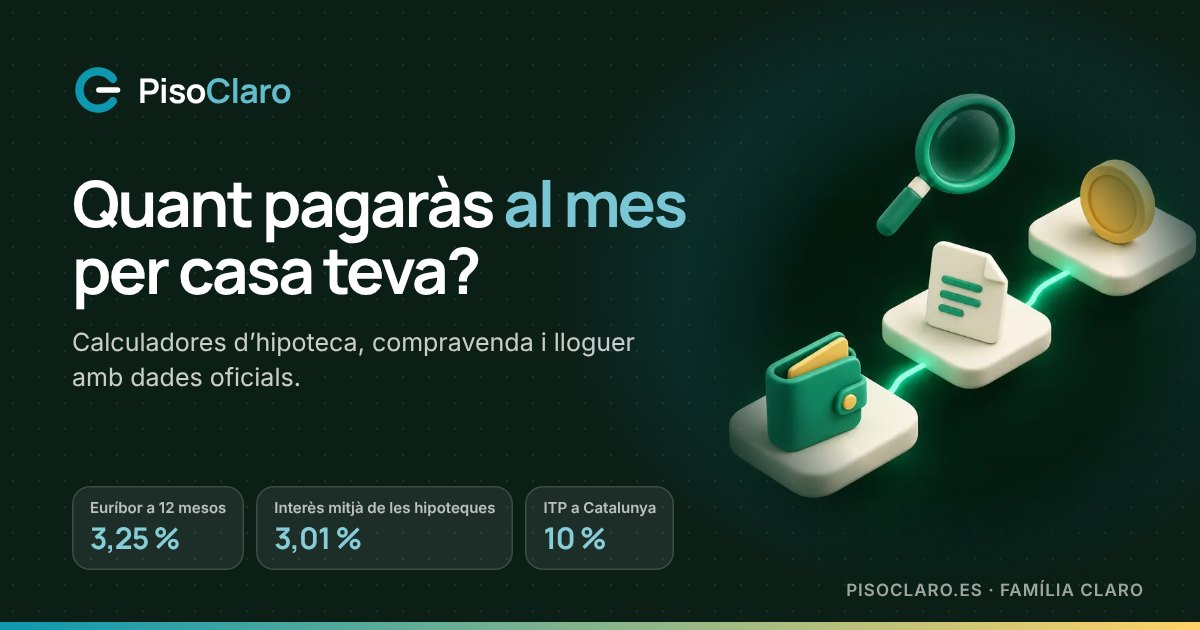
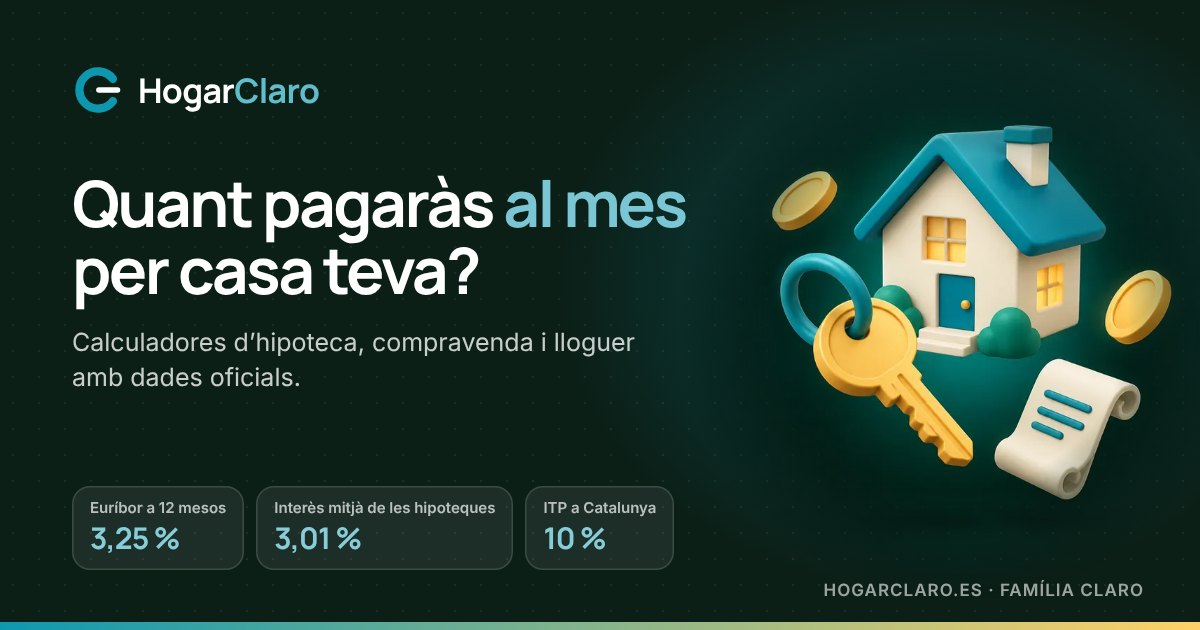
P: el sitio 4 pasa a llamarse HogarClaro (PisoClaro ya existía), ilustración propia, calendario sin aviso de parámetros provisionales
Claude-Session: https://claude.ai/code/session_01W9takBgfPkU2UgntoJrupH

Changed region(s): [[0.5858, 0.1508, 1.0, 0.8143], [0.1233, 0.1206, 0.2775, 0.181], [0.6783, 0.9048, 0.74, 0.9651]]

diff --git a/proyectos/p-webs-adsense/fabrica/src/lib/graficos.ts b/proyectos/p-webs-adsense/fabrica/src/lib/graficos.ts
@@ -179,7 +179,7 @@ const FICHAS: Record<string, ConfFicha> = {
   'irpf-por-salario-comunidad': { tipo: 'barras', y: [2], ordenar: true, titulo: (l, c) => L(l, `IRPF anual con ${c[2]} brutos`, `IRPF anual amb ${c[2]} bruts`) },
   'tipo-marginal-comunidades': { tipo: 'barras', y: [5], ordenar: true, titulo: (l) => L(l, 'Tipo marginal máximo (estatal + autonómico)', 'Tipus marginal màxim (estatal + autonòmic)') },
   'minimos-personales': { tipo: 'barras', tabla: 1, y: [1], ordenar: true, titulo: (l) => L(l, 'Mínimo personal autonómico', 'Mínim personal autonòmic') },
-  // PisoClaro (src/fichas/vivienda.ts)
+  // HogarClaro (src/fichas/vivienda.ts)
   'euribor-historico': { tipo: 'linea', y: [1], invertir: true, puntos: true, titulo: (l) => L(l, 'Euríbor a 12 meses, media mensual', 'Euríbor a 12 mesos, mitjana mensual') },
   'itp-por-comunidad': { tipo: 'barras', y: [2], ordenar: true, titulo: (l) => L(l, 'ITP de una vivienda usada de 200.000 €', 'ITP d’un habitatge usat de 200.000 €') },
   'ajd-por-comunidad': { tipo: 'barras', y: [2], ordenar: true, titulo: (l) => L(l, 'AJD de una vivienda nueva de 250.000 €', 'AJD d’un habitatge nou de 250.000 €') },

diff --git a/proyectos/p-webs-adsense/fabrica/src/lib/legal.ts b/proyectos/p-webs-adsense/fabrica/src/lib/legal.ts
@@ -16,7 +16,7 @@ export function legal(id: string, lang: Lang, actualizado: string): PaginaLegal 
   const t = sitio.titular, n = sitio.nombre, dom = sitio.dominio.replace(/^https?:\/\//, '');
   const ads = anunciosActivos();
   const es = lang === 'es';
-  // Textos propios del sitio (sitio.json → «legal»): PisoClaro no habla de nóminas ni del SEPE. Sin ellos, los de siempre.
+  // Textos propios del sitio (sitio.json → «legal»): HogarClaro no habla de nóminas ni del SEPE. Sin ellos, los de siempre.
   const X: Record<string, string> = sitio.legal?.[lang] ?? {};
   switch (id) {
     case 'aviso':

diff --git a/proyectos/p-webs-adsense/fabrica/src/plantillas/index.ts b/proyectos/p-webs-adsense/fabrica/src/plantillas/index.ts
@@ -183,7 +183,7 @@ export const PLANTILLAS: Record<string, Plantilla> = {
 Object.assign(PLANTILLAS, PLANTILLAS_US);
 // Páginas por combinación de NetoClaro e ImpuestoClaro (src/plantillas/nomina.ts e impuestos.ts)
 Object.assign(PLANTILLAS, PLANTILLAS_NOMINA, PLANTILLAS_IMPUESTOS);
-// Plantillas de PisoClaro (src/plantillas/vivienda.ts)
+// Plantillas de HogarClaro (src/plantillas/vivienda.ts)
 Object.assign(PLANTILLAS, PLANTILLAS_VIV);
 // Calendario laboral por comunidad y municipio de NetoClaro (src/plantillas/calendario.ts)
 Object.assign(PLANTILLAS, PLANTILLAS_CALENDARIO);

diff --git a/proyectos/p-webs-adsense/fabrica/src/lib/calc/vivienda.ts b/proyectos/p-webs-adsense/fabrica/src/lib/calc/vivienda.ts
@@ -1,4 +1,4 @@
-// Motor de vivienda e hipoteca (sitio PisoClaro). Funciones puras: ninguna cifra legal dentro.
+// Motor de vivienda e hipoteca (sitio HogarClaro). Funciones puras: ninguna cifra legal dentro.
 // Los parámetros llegan en V = params/es/<año>/vivienda.json (tipos de ITP y AJD, aranceles, comisiones,
 // coeficientes de plusvalía, Euríbor, IRAV…). Los tipos de interés van siempre en % anual (3.01 = 3,01 %).
 import { r2, cuotaEscala, type Tramo } from './base';

diff --git a/proyectos/p-webs-adsense/fabrica/src/fichas/vivienda.ts b/proyectos/p-webs-adsense/fabrica/src/fichas/vivienda.ts
@@ -1,4 +1,4 @@
-// Fichas de datos «citables» de PisoClaro: Euríbor, ITP y AJD, gastos de compra, plusvalía, cuotas, IRAV, aranceles,
+// Fichas de datos «citables» de HogarClaro: Euríbor, ITP y AJD, gastos de compra, plusvalía, cuotas, IRAV, aranceles,
 // hipotecas del INE y esfuerzo por sueldo. Las cifras salen de params/es/<año>/vivienda.json o del motor.
 import { tt, type Lang } from '../lib/def';
 import type { Ficha } from './tipos';

diff --git a/proyectos/p-webs-adsense/fabrica/src/lib/camposVivienda.ts b/proyectos/p-webs-adsense/fabrica/src/lib/camposVivienda.ts
@@ -1,4 +1,4 @@
-// Campos y textos comunes de las calculadoras de vivienda (PisoClaro, src/calculadoras/viv-*.ts).
+// Campos y textos comunes de las calculadoras de vivienda (HogarClaro, src/calculadoras/viv-*.ts).
 // Las cifras salen de params/es/<año>/vivienda.json; aquí solo hay nombres, etiquetas y valores de ejemplo editables.
 import { tt, type Campo, type T, type Txt, type Lang } from './def';
 import { params, anios } from './params';

diff --git a/proyectos/p-webs-adsense/fabrica/tests/calculadoras.test.ts b/proyectos/p-webs-adsense/fabrica/tests/calculadoras.test.ts
@@ -49,7 +49,7 @@ describe('calculadoras de EE. UU.', () => {
   }
 });
 
-// PisoClaro (vivienda): las 20 calculadoras con sus valores por defecto, en los dos idiomas y los dos años
+// HogarClaro (vivienda): las 20 calculadoras con sus valores por defecto, en los dos idiomas y los dos años
 describe('calculadoras de vivienda', () => {
   it('hay 20 y todas tienen definición', () => {
     expect(vivienda.calculadoras.length).toBe(20);

diff --git a/proyectos/p-webs-adsense/fabrica/src/plantillas/vivienda.ts b/proyectos/p-webs-adsense/fabrica/src/plantillas/vivienda.ts
@@ -1,4 +1,4 @@
-// Plantillas de las páginas programáticas de PisoClaro. Cada página trae su cifra principal, su tabla y su gráfico,
+// Plantillas de las páginas programáticas de HogarClaro. Cada página trae su cifra principal, su tabla y su gráfico,
 // calculados con el motor de vivienda para su fila (importe y plazo, o comunidad).
 import { tt, type Lang } from '../lib/def';
 import type { PaginaProg } from './index';

diff --git a/proyectos/p-webs-adsense/fabrica/tests/vivienda.test.ts b/proyectos/p-webs-adsense/fabrica/tests/vivienda.test.ts
@@ -1,4 +1,4 @@
-// Motor de vivienda (PisoClaro): casos de comprobación de sitios-nuevos/SITIO-4-HIPOTECAS.md y comprobaciones propias.
+// Motor de vivienda (HogarClaro): casos de comprobación de sitios-nuevos/SITIO-4-HIPOTECAS.md y comprobaciones propias.
 import { describe, it, expect } from 'vitest';
 import { params, anios } from '../src/lib/params';
 import {

diff --git a/proyectos/p-webs-adsense/PARA-MOISES.md b/proyectos/p-webs-adsense/PARA-MOISES.md
@@ -14,7 +14,7 @@ opción libre de cada fila en [DonDominio](https://www.dondominio.com/es/) o en 
 | **Imprescindible** | 2 · ImpuestoClaro (impuestos y autónomos) | **impuestoclaro.es** | cuotaclara.es | irpfacil.es | 8–12 €/año |
 | Recomendado, porque ya se está construyendo | 3 · ChequeClaro (finanzas de EE. UU. en español) | **chequeclaro.com** | taxesclaros.com | nominaclara.com | 10–15 €/año |
 | Recomendado | Portal CalculaClaro (buscador de todas las calculadoras y puerta a cada sitio) | **calculaclaro.com** | calculaclaro.es | numerosclaros.com | 10–15 €/año |
-| Opcional, para reservar el nombre | 4 · PisoClaro (vivienda e hipotecas) | pisoclaro.es | hipotecaclara.es | casaclara.es | 8–12 €/año |
+| Recomendado, ya construido | 4 · HogarClaro (vivienda e hipotecas) | **hogarclaro.es** | hogarclaro.com | casaclara.es | 8–12 €/año |
 | Opcional, para reservar el nombre | 5 · MotorClaro (coche) | motorclaro.es | cocheclaro.es | circulaclaro.es | 8–12 €/año |
 
 - **Coste:** los dos imprescindibles suman unos 20 € al año. Los cinco juntos, unos 50 € al año.
@@ -22,7 +22,8 @@ opción libre de cada fila en [DonDominio](https://www.dondominio.com/es/) o en 
   Por eso el portal se llama CalculaClaro, un nombre compuesto como el de los sitios.
 - **Marcas que he cambiado:**
   - Para el sitio 2 he descartado «CuentaClara», porque ABANCA tiene cuentas «Cuenta Clara» para autónomos.
-  - Para el sitio 4 he descartado «HipotecaClara», porque existe un curso de pago llamado «Método Hipoteca Clara».
+  - Para el sitio 4 he descartado «HipotecaClara», porque existe un curso de pago llamado «Método Hipoteca Clara», y
+    «PisoClaro», porque ya hay una web de reseñas de pisos con ese nombre. Queda **HogarClaro**.
 - **Después de comprar:** dime qué dominios has comprado. La sesión del Mac los conecta a Vercel con
   `DESPLIEGUE.md`. Si el registrador te pide DNS, son estos dos registros:
   - un registro **A** en `@` con el valor `76.76.21.21`;

diff --git a/proyectos/p-webs-adsense/DESPLIEGUE.md b/proyectos/p-webs-adsense/DESPLIEGUE.md
@@ -165,3 +165,15 @@ dan 200 y su pie «Familia Claro» enlaza a NetoClaro, ImpuestoClaro, ChequeClar
 portal https://calculaclaro.vercel.app.
 
 Ejecutado el 2026-10-30
+
+## 31/10: HogarClaro (sitio 4), calendario laboral 2027 y 600 páginas nuevas
+
+El PR #6 (commit siguiente a 11a5d38) trae el sitio 4 **HogarClaro** (`SITIO=vivienda`), el calendario laboral 2027 de
+NetoClaro y unas 700 páginas nuevas en NetoClaro, ImpuestoClaro y ChequeClaro.
+
+1. Crear el proyecto `hogarclaro` con el camino B: `SITIO=vivienda`, `SITE_URL=https://hogarclaro.vercel.app` y
+   los `LEGAL_*`. Si la URL sale con otro nombre, ponla en `fabrica/familia.json` (sitio `vivienda`, campo `url`).
+2. Borrar el proyecto `pisoclaro` de Vercel. Lo creó la sesión en la nube antes de cambiar el nombre. Está en
+   pisoclaro-three.vercel.app con la canónica mal puesta, porque pisoclaro.vercel.app es de otra web.
+3. Redesplegar `netoclaro`, `impuestoclaro`, `chequeclaro` y `calculaclaro` (`SITIO=portal`, `PORTAL_URL=https://calculaclaro.vercel.app`).
+   Así tienen las páginas nuevas y el pie «Familia Claro» con HogarClaro.
